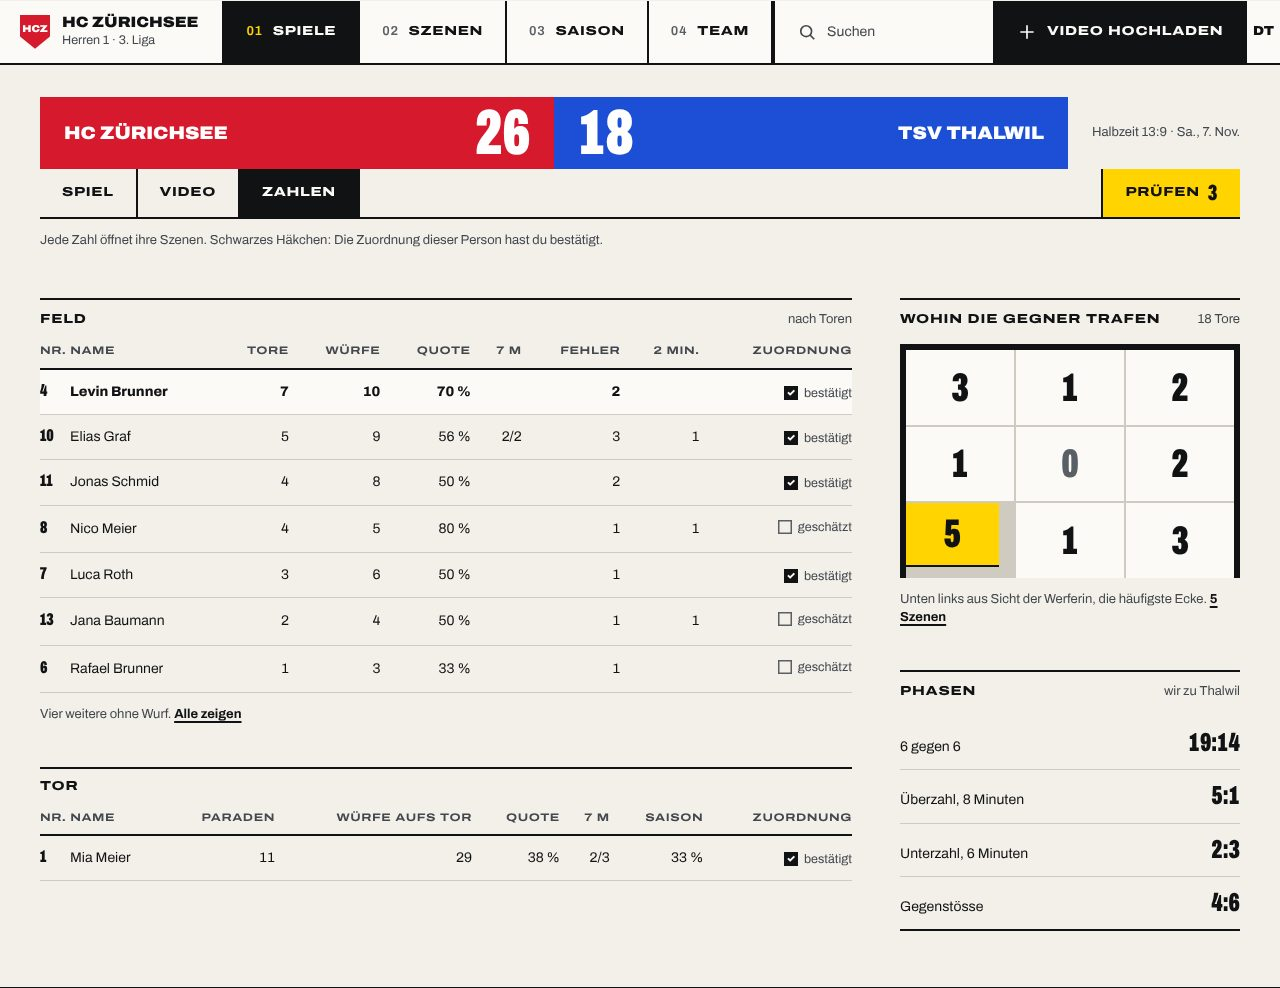
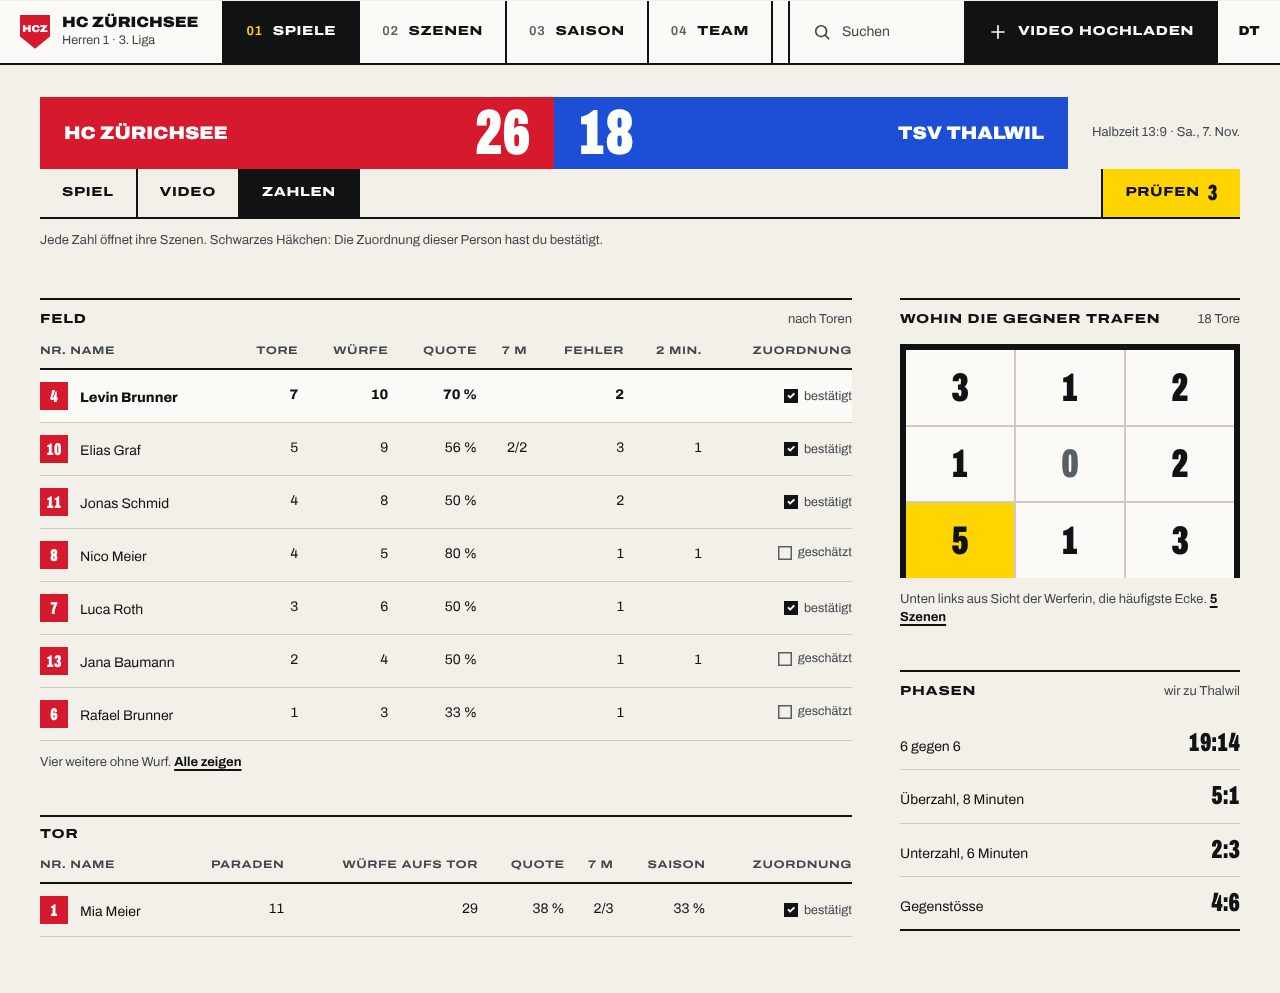
Round two: shirt numbers in the figures tables, fix goal grid and top bar
The goal grid's most frequent cell shared the class of the app header and
was styled as one; the Plakat top bar clipped the account cell at 1280 px.

Claude-Session: https://claude.ai/code/session_01H3gog7EvR77ewfZoYWEN36

diff --git a/docs/design/ux-reset/runde2/plakat/index.html b/docs/design/ux-reset/runde2/plakat/index.html
@@ -69,7 +69,7 @@
 .pl .nav span.on { background: var(--ink); color: var(--sheet); }
 .pl .nav span.on i { color: var(--signal); }
 .pl .top .gap { flex: 1; border-right: 2px solid var(--ink); }
-.pl .search { gap: 10px; padding: 0 22px; color: var(--ink-2); font-size: 14px; min-width: 220px; }
+.pl .search { gap: 10px; padding: 0 22px; color: var(--ink-2); font-size: 14px; min-width: 176px; }
 .pl .top .up { gap: 10px; padding: 0 22px; background: var(--ink); color: var(--sheet); font: 800 13px/1 var(--f); font-stretch: 125%; letter-spacing: 0.05em; text-transform: uppercase; border-right: 0; white-space: nowrap; }
 .pl .acct { justify-content: center; width: 64px; font: 900 13px/1 var(--f); font-stretch: 112%; border-right: 0 !important; border-left: 2px solid var(--ink); }
 .pl.is-phone .top { height: 56px; }
@@ -197,7 +197,7 @@
 .pl th { text-align: right; font: 700 11px/1.2 var(--f); font-stretch: 125%; letter-spacing: 0.05em; text-transform: uppercase; color: var(--ink-2); padding: 0 0 10px 12px; border-bottom: 2px solid var(--ink); white-space: nowrap; }
 .pl th:first-child, .pl td:first-child { text-align: left; padding-left: 0; }
 .pl td { text-align: right; padding: 12px 0 12px 12px; border-bottom: 1px solid var(--hair); font-variant-numeric: tabular-nums; white-space: nowrap; }
-.pl td .nr { display: inline-block; width: 30px; font: 900 17px/1 var(--f); font-stretch: 62%; }
+.pl td .nr { display: inline-block; width: 28px; margin-right: 12px; padding: 6px 0 5px; text-align: center; font: 900 17px/1 var(--f); font-stretch: 62%; font-variant-numeric: tabular-nums; color: var(--home-ink); background: var(--home); }
 .pl tr.me td { font-weight: 800; background: var(--sheet); }
 .pl .ok { display: inline-flex; align-items: center; gap: 6px; font-size: 12.5px; color: var(--ink-2); font-weight: 400; }
 .pl .ok i { width: 14px; height: 14px; display: grid; place-items: center; background: var(--ink); color: var(--sheet); font: 900 10px/1 var(--f); font-style: normal; }
@@ -257,7 +257,7 @@
 /* zahlen */
 .pl .goal { display: grid; grid-template-columns: repeat(3, 1fr); gap: 2px; background: var(--hair); border: 6px solid var(--ink); border-bottom: 0; }
 .pl .goal span { aspect-ratio: 1.45; display: grid; place-items: center; font: 900 40px/1 var(--f); font-stretch: 62%; font-variant-numeric: tabular-nums; background: var(--sheet); }
-.pl .goal span.top { background: var(--signal); }
+.pl .goal span.hot { background: var(--signal); }
 .pl .goal span.zero { color: var(--ink-3); }
 .pl .phases { border-bottom: 2px solid var(--ink); }
 .pl .phases li { display: flex; justify-content: space-between; align-items: baseline; gap: 12px; padding: 12px 0; border-top: 1px solid var(--hair); font-size: 14px; }
@@ -593,7 +593,7 @@ body { margin: 0; background: var(--paper); }
         <section>
           <div class="sh"><h2>Wohin die Gegner trafen</h2><span>18 Tore</span></div>
           <div class="goal" role="img" aria-label="Tore nach Torecke: oben links 3, oben Mitte 1, oben rechts 2, Mitte links 1, Mitte 0, Mitte rechts 2, unten links 5, unten Mitte 1, unten rechts 3">
-            <span>3</span><span>1</span><span>2</span><span>1</span><span class="zero">0</span><span>2</span><span class="top">5</span><span>1</span><span>3</span>
+            <span>3</span><span>1</span><span>2</span><span>1</span><span class="zero">0</span><span>2</span><span class="hot">5</span><span>1</span><span>3</span>
           </div>
           <p class="small" style="margin-top:12px">Unten links aus Sicht der Werferin, die häufigste Ecke. <span class="lnk">5 Szenen</span></p>
         </section>

diff --git a/docs/design/ux-reset/runde2/plakat/src.html b/docs/design/ux-reset/runde2/plakat/src.html
@@ -69,7 +69,7 @@
 .pl .nav span.on { background: var(--ink); color: var(--sheet); }
 .pl .nav span.on i { color: var(--signal); }
 .pl .top .gap { flex: 1; border-right: 2px solid var(--ink); }
-.pl .search { gap: 10px; padding: 0 22px; color: var(--ink-2); font-size: 14px; min-width: 220px; }
+.pl .search { gap: 10px; padding: 0 22px; color: var(--ink-2); font-size: 14px; min-width: 176px; }
 .pl .top .up { gap: 10px; padding: 0 22px; background: var(--ink); color: var(--sheet); font: 800 13px/1 var(--f); font-stretch: 125%; letter-spacing: 0.05em; text-transform: uppercase; border-right: 0; white-space: nowrap; }
 .pl .acct { justify-content: center; width: 64px; font: 900 13px/1 var(--f); font-stretch: 112%; border-right: 0 !important; border-left: 2px solid var(--ink); }
 .pl.is-phone .top { height: 56px; }
@@ -197,7 +197,7 @@
 .pl th { text-align: right; font: 700 11px/1.2 var(--f); font-stretch: 125%; letter-spacing: 0.05em; text-transform: uppercase; color: var(--ink-2); padding: 0 0 10px 12px; border-bottom: 2px solid var(--ink); white-space: nowrap; }
 .pl th:first-child, .pl td:first-child { text-align: left; padding-left: 0; }
 .pl td { text-align: right; padding: 12px 0 12px 12px; border-bottom: 1px solid var(--hair); font-variant-numeric: tabular-nums; white-space: nowrap; }
-.pl td .nr { display: inline-block; width: 30px; font: 900 17px/1 var(--f); font-stretch: 62%; }
+.pl td .nr { display: inline-block; width: 28px; margin-right: 12px; padding: 6px 0 5px; text-align: center; font: 900 17px/1 var(--f); font-stretch: 62%; font-variant-numeric: tabular-nums; color: var(--home-ink); background: var(--home); }
 .pl tr.me td { font-weight: 800; background: var(--sheet); }
 .pl .ok { display: inline-flex; align-items: center; gap: 6px; font-size: 12.5px; color: var(--ink-2); font-weight: 400; }
 .pl .ok i { width: 14px; height: 14px; display: grid; place-items: center; background: var(--ink); color: var(--sheet); font: 900 10px/1 var(--f); font-style: normal; }
@@ -257,7 +257,7 @@
 /* zahlen */
 .pl .goal { display: grid; grid-template-columns: repeat(3, 1fr); gap: 2px; background: var(--hair); border: 6px solid var(--ink); border-bottom: 0; }
 .pl .goal span { aspect-ratio: 1.45; display: grid; place-items: center; font: 900 40px/1 var(--f); font-stretch: 62%; font-variant-numeric: tabular-nums; background: var(--sheet); }
-.pl .goal span.top { background: var(--signal); }
+.pl .goal span.hot { background: var(--signal); }
 .pl .goal span.zero { color: var(--ink-3); }
 .pl .phases { border-bottom: 2px solid var(--ink); }
 .pl .phases li { display: flex; justify-content: space-between; align-items: baseline; gap: 12px; padding: 12px 0; border-top: 1px solid var(--hair); font-size: 14px; }
@@ -593,7 +593,7 @@ body { margin: 0; background: var(--paper); }
         <section>
           <div class="sh"><h2>Wohin die Gegner trafen</h2><span>18 Tore</span></div>
           <div class="goal" role="img" aria-label="Tore nach Torecke: oben links 3, oben Mitte 1, oben rechts 2, Mitte links 1, Mitte 0, Mitte rechts 2, unten links 5, unten Mitte 1, unten rechts 3">
-            <span>3</span><span>1</span><span>2</span><span>1</span><span class="zero">0</span><span>2</span><span class="top">5</span><span>1</span><span>3</span>
+            <span>3</span><span>1</span><span>2</span><span>1</span><span class="zero">0</span><span>2</span><span class="hot">5</span><span>1</span><span>3</span>
           </div>
           <p class="small" style="margin-top:12px">Unten links aus Sicht der Werferin, die häufigste Ecke. <span class="lnk">5 Szenen</span></p>
         </section>

diff --git a/docs/design/ux-reset/runde2/flutlicht/index.html b/docs/design/ux-reset/runde2/flutlicht/index.html
@@ -204,7 +204,7 @@
 .fl th { text-align: right; font: 600 11.5px/1.2 var(--f-head); font-stretch: 88%; letter-spacing: 0.1em; text-transform: uppercase; color: var(--tx-3); padding: 0 0 10px 12px; border-bottom: 1px solid var(--rule-2); white-space: nowrap; }
 .fl th:first-child, .fl td:first-child { text-align: left; padding-left: 0; }
 .fl td { text-align: right; padding: 12px 0 12px 12px; border-bottom: 1px solid var(--rule); font-variant-numeric: tabular-nums; white-space: nowrap; }
-.fl td .nr { display: inline-block; width: 28px; font: 700 15px/1 var(--f-head); color: var(--tx-3); }
+.fl td .nr { display: inline-block; width: 26px; margin-right: 12px; padding: 5px 0 4px; text-align: center; font: 800 15px/1 var(--f-head); font-stretch: 75%; font-variant-numeric: tabular-nums; color: #fff; background: var(--home); border-radius: 2px; }
 .fl tr.me td { color: var(--tx); font-weight: 700; }
 .fl tr.me td:first-child { box-shadow: inset 3px 0 0 var(--home); padding-left: 12px; }
 .fl .ok { display: inline-flex; align-items: center; gap: 6px; font-size: 12.5px; color: var(--tx-3); font-weight: 400; }
@@ -268,7 +268,7 @@
 /* zahlen */
 .fl .goal { display: grid; grid-template-columns: repeat(3, 1fr); gap: 3px; padding: 6px 6px 0; border: 3px solid var(--tx); border-bottom: 0; }
 .fl .goal span { aspect-ratio: 1.45; display: grid; place-items: center; background: var(--panel); font: 800 26px/1 var(--f-head); font-variant-numeric: tabular-nums; }
-.fl .goal span.top { background: var(--led); color: #1a1206; }
+.fl .goal span.hot { background: var(--led); color: #1a1206; }
 .fl .goal span.zero { color: var(--tx-3); }
 .fl .phases li { display: flex; justify-content: space-between; gap: 12px; padding: 12px 0; border-bottom: 1px solid var(--rule); font-size: 14px; }
 .fl .phases b { font: 800 18px/1 var(--f-head); font-variant-numeric: tabular-nums; }
@@ -608,7 +608,7 @@ body { margin: 0; background: #070a0c; }
         <section>
           <div class="sh"><h2>Wohin die Gegner trafen</h2><span>18 Tore</span></div>
           <div class="goal" role="img" aria-label="Tore nach Torecke: oben links 3, oben Mitte 1, oben rechts 2, Mitte links 1, Mitte 0, Mitte rechts 2, unten links 5, unten Mitte 1, unten rechts 3">
-            <span>3</span><span>1</span><span>2</span><span>1</span><span class="zero">0</span><span>2</span><span class="top">5</span><span>1</span><span>3</span>
+            <span>3</span><span>1</span><span>2</span><span>1</span><span class="zero">0</span><span>2</span><span class="hot">5</span><span>1</span><span>3</span>
           </div>
           <p class="small" style="margin-top:12px">Unten links aus Sicht der Werferin, die häufigste Ecke. <span class="lnk">5 Szenen</span></p>
         </section>

diff --git a/docs/design/ux-reset/runde2/flutlicht/src.html b/docs/design/ux-reset/runde2/flutlicht/src.html
@@ -204,7 +204,7 @@
 .fl th { text-align: right; font: 600 11.5px/1.2 var(--f-head); font-stretch: 88%; letter-spacing: 0.1em; text-transform: uppercase; color: var(--tx-3); padding: 0 0 10px 12px; border-bottom: 1px solid var(--rule-2); white-space: nowrap; }
 .fl th:first-child, .fl td:first-child { text-align: left; padding-left: 0; }
 .fl td { text-align: right; padding: 12px 0 12px 12px; border-bottom: 1px solid var(--rule); font-variant-numeric: tabular-nums; white-space: nowrap; }
-.fl td .nr { display: inline-block; width: 28px; font: 700 15px/1 var(--f-head); color: var(--tx-3); }
+.fl td .nr { display: inline-block; width: 26px; margin-right: 12px; padding: 5px 0 4px; text-align: center; font: 800 15px/1 var(--f-head); font-stretch: 75%; font-variant-numeric: tabular-nums; color: #fff; background: var(--home); border-radius: 2px; }
 .fl tr.me td { color: var(--tx); font-weight: 700; }
 .fl tr.me td:first-child { box-shadow: inset 3px 0 0 var(--home); padding-left: 12px; }
 .fl .ok { display: inline-flex; align-items: center; gap: 6px; font-size: 12.5px; color: var(--tx-3); font-weight: 400; }
@@ -268,7 +268,7 @@
 /* zahlen */
 .fl .goal { display: grid; grid-template-columns: repeat(3, 1fr); gap: 3px; padding: 6px 6px 0; border: 3px solid var(--tx); border-bottom: 0; }
 .fl .goal span { aspect-ratio: 1.45; display: grid; place-items: center; background: var(--panel); font: 800 26px/1 var(--f-head); font-variant-numeric: tabular-nums; }
-.fl .goal span.top { background: var(--led); color: #1a1206; }
+.fl .goal span.hot { background: var(--led); color: #1a1206; }
 .fl .goal span.zero { color: var(--tx-3); }
 .fl .phases li { display: flex; justify-content: space-between; gap: 12px; padding: 12px 0; border-bottom: 1px solid var(--rule); font-size: 14px; }
 .fl .phases b { font: 800 18px/1 var(--f-head); font-variant-numeric: tabular-nums; }
@@ -608,7 +608,7 @@ body { margin: 0; background: #070a0c; }
         <section>
           <div class="sh"><h2>Wohin die Gegner trafen</h2><span>18 Tore</span></div>
           <div class="goal" role="img" aria-label="Tore nach Torecke: oben links 3, oben Mitte 1, oben rechts 2, Mitte links 1, Mitte 0, Mitte rechts 2, unten links 5, unten Mitte 1, unten rechts 3">
-            <span>3</span><span>1</span><span>2</span><span>1</span><span class="zero">0</span><span>2</span><span class="top">5</span><span>1</span><span>3</span>
+            <span>3</span><span>1</span><span>2</span><span>1</span><span class="zero">0</span><span>2</span><span class="hot">5</span><span>1</span><span>3</span>
           </div>
           <p class="small" style="margin-top:12px">Unten links aus Sicht der Werferin, die häufigste Ecke. <span class="lnk">5 Szenen</span></p>
         </section>
